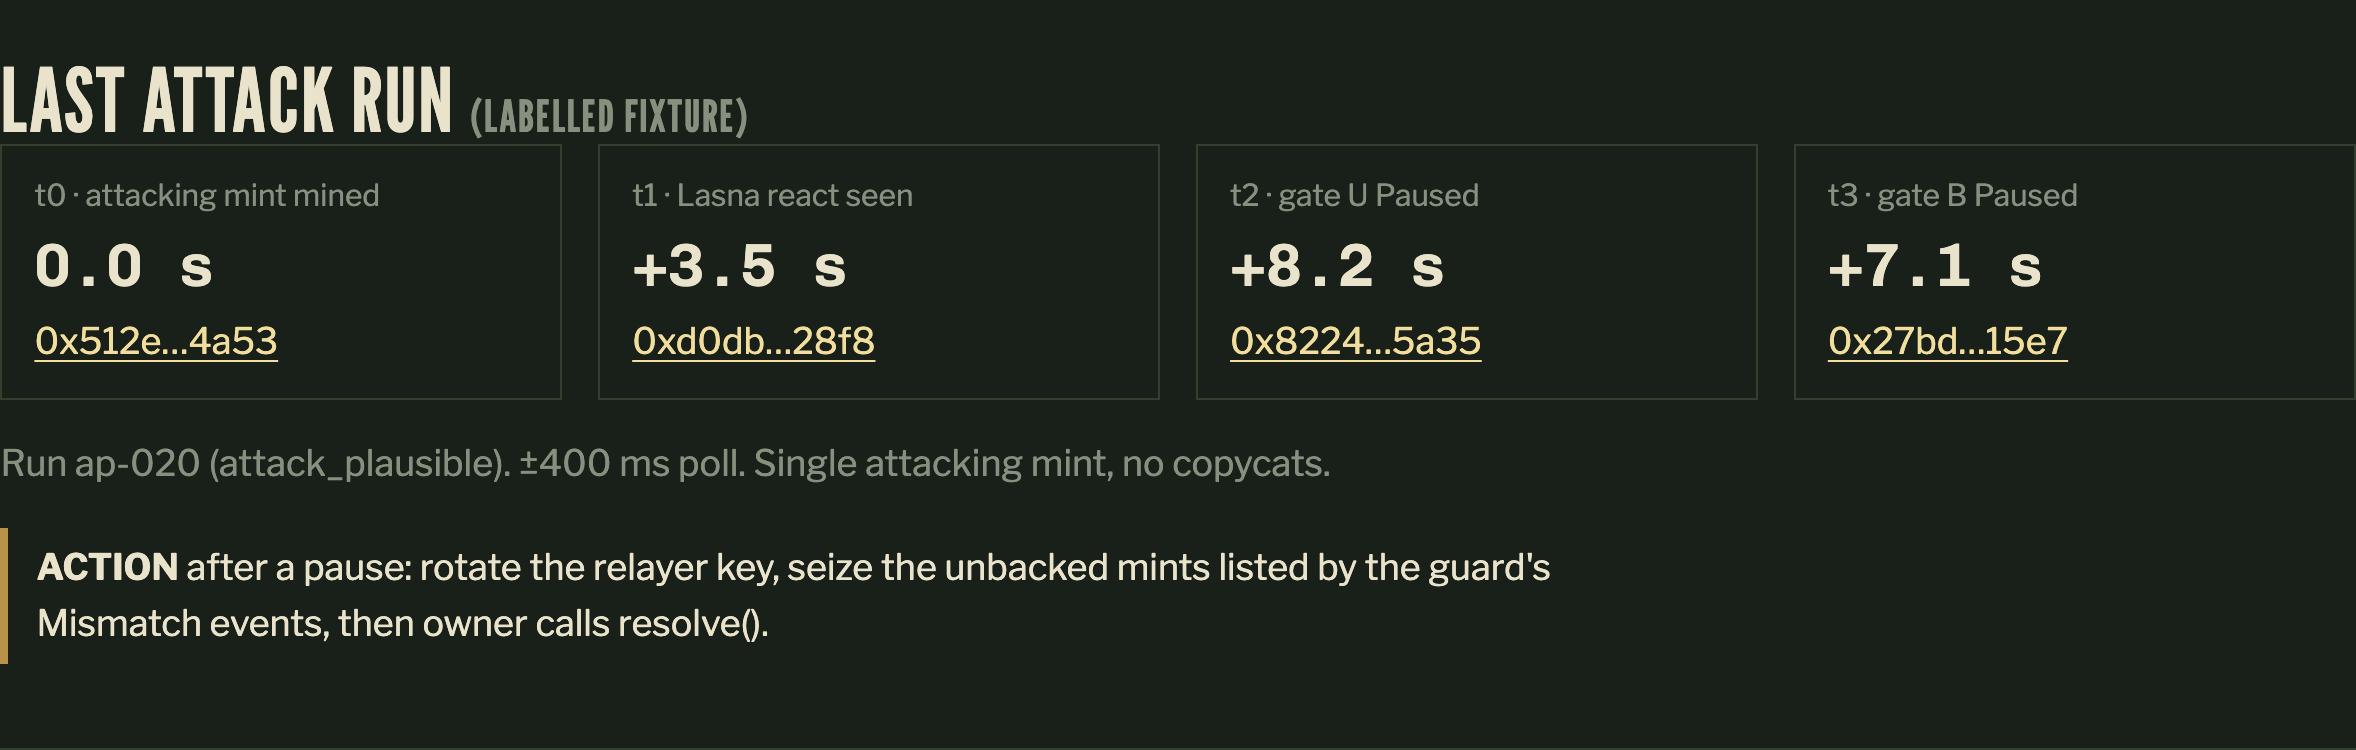
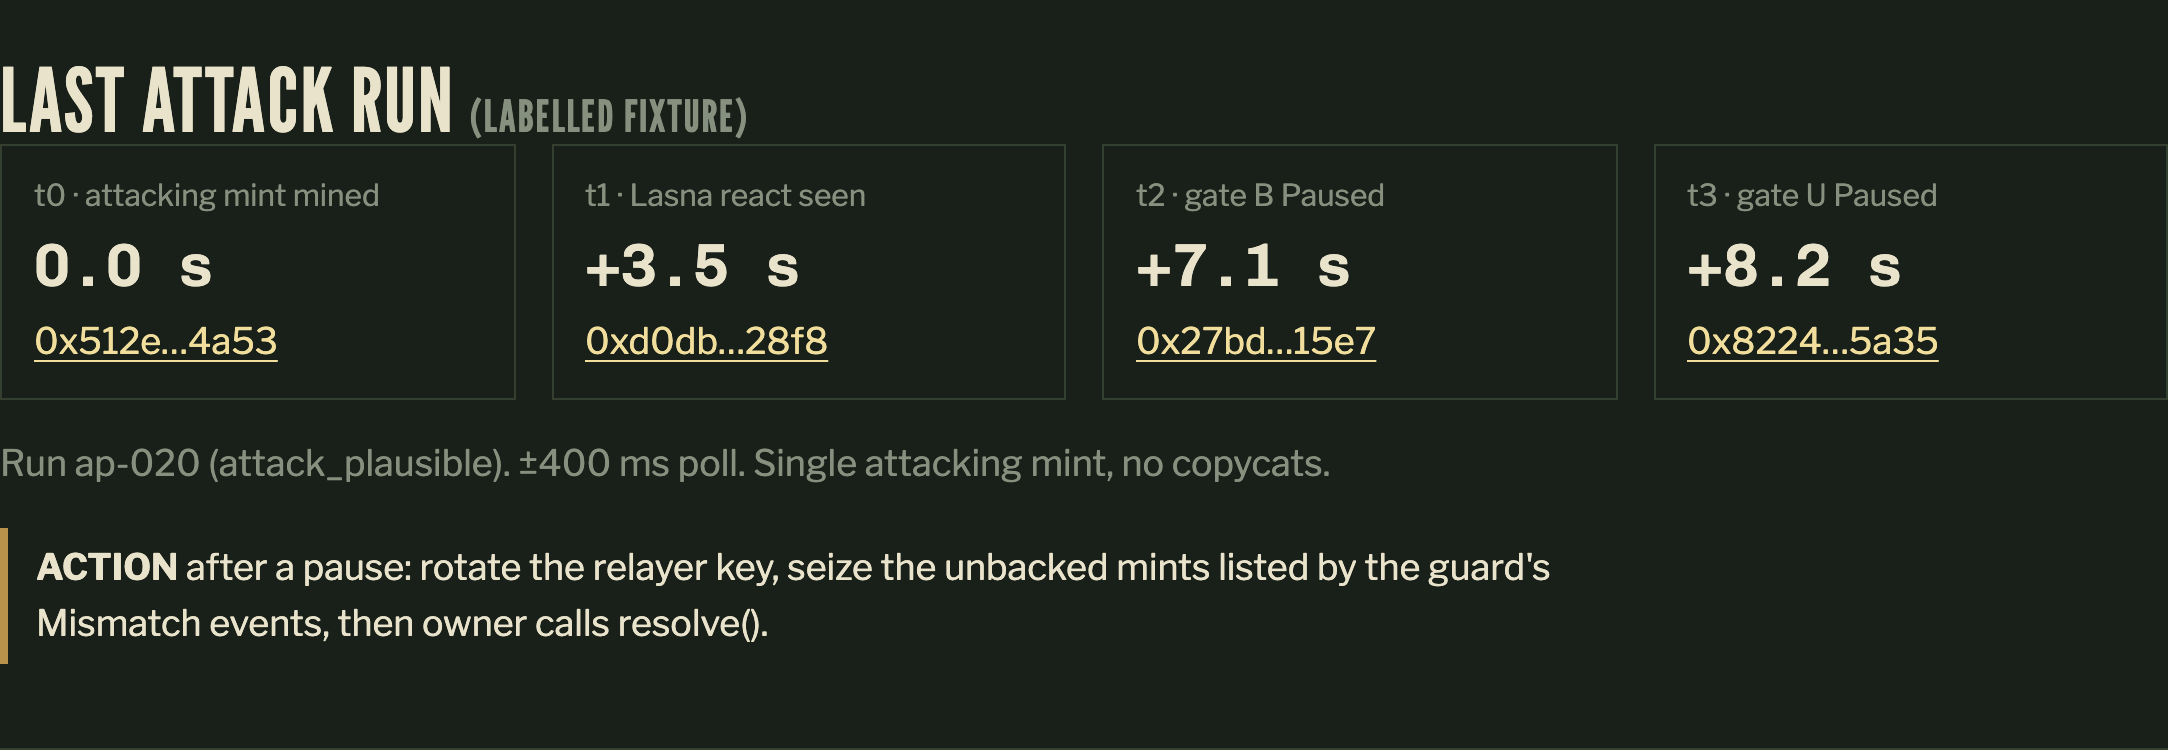
fix(status): the status page joins the site, and the last attack run reads in time order
- Site nav with the brand mark and release chip, the landing's 1180 px column, a <main> landmark and a skip link.
- LINE CLEAR / LINE BLOCKED carry the two track lamps (gate B, gate U) from the landing's tabs.
- Attack-run cards sort by time: ap-020 now reads gate B +7.1 s, then gate U +8.2 s. status-inc.png re-captured.
- Scrollable tables and /judge code blocks are keyboard-focusable regions; canonical link on /status/.
- release.js: one localStorage cache for every page, misses cached too, so a rate-limited
  IP calls the GitHub API at most once an hour instead of once per page.

diff --git a/docs/status/index.html b/docs/status/index.html
@@ -22,10 +22,11 @@
 <meta name="twitter:description" content="Live testnet status of the Ledgerlock guard: Reactive watches both chains of a bridge and shuts both ends when a mint has no lock. Every number is read from committed run rows.">
 <meta name="twitter:image" content="https://edycutjong.github.io/ledgerlock/assets/og-image.png">
 <meta name="twitter:image:alt" content="Ledgerlock: both bridge gates shut 8.245 s (p95 of 100 testnet attacks) after a mint on Unichain with no lock on Base; 0 of 80 legit transfers paused">
+<link rel="canonical" href="https://edycutjong.github.io/ledgerlock/status/">
 <meta name="description" content="Live status of the Ledgerlock guard: Reactive Network watches both chains of a bridge and shuts both ends of the line when a mint has no lock behind it. Testnet; every number is read from committed run rows.">
 <link rel="preload" href="fonts/league-gothic-latin-400-normal.woff2" as="font" type="font/woff2" crossorigin>
 <style>
-body.loading>section,body.loading>footer{visibility:hidden}
+body.loading main>section,body.loading>footer{visibility:hidden}
 @font-face{font-family:"League Gothic";src:url(fonts/league-gothic-latin-400-normal.woff2) format("woff2");font-weight:400;font-display:swap}
 @font-face{font-family:"Libre Franklin";src:url(fonts/libre-franklin-latin-400-normal.woff2) format("woff2");font-weight:400;font-display:swap}
 @font-face{font-family:"Libre Franklin";src:url(fonts/libre-franklin-latin-700-normal.woff2) format("woff2");font-weight:700;font-display:swap}
@@ -36,23 +37,46 @@ body.loading>section,body.loading>footer{visibility:hidden}
 *{box-sizing:border-box}
 html{background:var(--bg);color:var(--ink);font-family:var(--font-body);font-size:16px;line-height:1.55}
 @media(min-width:900px){html{font-size:18px}}
-body{margin:0;padding:0 clamp(16px,4vw,56px) 64px;max-width:1280px;margin-inline:auto}
-a{color:var(--before);text-decoration-thickness:1px;text-underline-offset:3px}
-a:hover{color:var(--ink)} a:focus-visible,input:focus-visible{outline:2px solid var(--brass);outline-offset:3px}
+body{margin:0;padding:0 0 64px}
+.wrap{max-width:1180px;margin:0 auto;padding:0 clamp(18px,4vw,48px)}
+::selection{background:var(--before);color:var(--bg)}
+a{color:var(--before);text-decoration-thickness:1px;text-underline-offset:3px;transition:color .15s,text-decoration-color .15s}
+a:hover{color:var(--ink)} a:focus-visible,input:focus-visible,.scroll:focus-visible{outline:2px solid var(--brass);outline-offset:3px}
+.skip{position:absolute;left:-999px;top:8px;background:var(--before);color:var(--bg);padding:8px 12px;z-index:9}.skip:focus{left:8px}
+header.nav{position:sticky;top:0;z-index:5;background:color-mix(in srgb,var(--bg) 92%,transparent);backdrop-filter:blur(6px);border-bottom:1px solid var(--rule)}
+.nav .wrap{display:flex;align-items:center;gap:18px;height:62px}
+.brand{display:flex;align-items:center;gap:10px;text-decoration:none;color:var(--ink)}
+.brand img{width:30px;height:30px;transition:transform .2s cubic-bezier(.2,.7,.2,1)}
+.brand span{font:400 26px/1 var(--font-display);letter-spacing:.04em;transition:color .2s}
+.brand:hover span{color:var(--before)}.brand:hover img{transform:rotate(-6deg)}
+.rel{font:400 12px/1 var(--font-data);color:var(--muted);text-decoration:none;border:1px solid var(--rule);padding:5px 7px;border-radius:2px;transition:color .2s,border-color .2s}
+.rel:hover{color:var(--ink);border-color:var(--muted)}
+.nav nav{display:flex;gap:20px;margin-left:auto;align-items:center}
+.nav nav a{color:var(--muted);text-decoration:none;font-size:14px;transition:color .2s}
+.nav nav a:hover,.nav nav a[aria-current]{color:var(--ink)}
+.nav .btn{display:inline-flex;align-items:center;padding:8px 14px;border:1px solid var(--rule);border-radius:3px;color:var(--ink);font:600 14px/1 var(--font-body);transition:border-color .2s,color .2s}
+.nav .btn:hover{border-color:var(--before);color:var(--before)}
+@media(max-width:560px){.nav nav a:not(.btn){display:none}.rel{display:none}}
 a:active{opacity:.75}
 .mono{font-family:var(--font-data);font-variant-numeric:tabular-nums}
 .disp{font-family:var(--font-display);text-transform:uppercase;letter-spacing:.02em;font-weight:400;margin:0;line-height:1}
 .muted{color:var(--muted)}
-header{padding:28px 0 12px;display:flex;flex-wrap:wrap;gap:8px 24px;align-items:baseline;border-bottom:1px solid var(--rule)}
-header h1{font-size:clamp(48px,8vw,96px)}
-header p{margin:0;max-width:70ch}
+.head{padding:30px 0 18px;display:flex;flex-wrap:wrap;gap:8px 24px;align-items:baseline;border-bottom:1px solid var(--rule)}
+.head h1{font-size:clamp(48px,8vw,96px)}
+.head p{margin:0;max-width:70ch}
 section{padding:28px 0;border-bottom:1px solid var(--rule)}
 section>h2{font-size:clamp(32px,4vw,44px);margin-bottom:12px;color:var(--ink)}
 .eyebrow{font-family:var(--font-data);font-size:13px;color:var(--muted);text-transform:uppercase;letter-spacing:.08em}
 .route{display:grid;grid-template-columns:1fr auto;gap:8px 24px;align-items:center;margin-bottom:28px}
 .route h3{font-size:clamp(28px,3.5vw,40px)}
-.state{font-family:var(--font-display);text-transform:uppercase;font-size:clamp(56px,9vw,88px);line-height:1;letter-spacing:.02em}
+.state{display:flex;align-items:center;gap:.26em;font-family:var(--font-display);text-transform:uppercase;font-size:clamp(56px,9vw,88px);line-height:1;letter-spacing:.02em}
+.state .tl{display:flex;flex-direction:column;gap:.1em;flex:none;padding:.09em .08em;border-radius:.07em;background:color-mix(in srgb,black 45%,var(--bg));box-shadow:0 0 0 1px var(--rule) inset}
+.state .tl b{display:block;width:.42em;height:.13em;border-radius:3px;background:var(--rule);transition:background .3s,box-shadow .3s}
+.state .tl b.c{background:var(--before);box-shadow:0 0 14px color-mix(in srgb,var(--before) 45%,transparent)}
+.state .tl b.r{background:var(--after);box-shadow:0 0 16px color-mix(in srgb,var(--after) 60%,transparent)}
+.state.clear{text-shadow:0 0 22px color-mix(in srgb,var(--before) 28%,transparent)}.state.blocked{text-shadow:0 0 26px color-mix(in srgb,var(--after) 50%,transparent)}
 .state.clear{color:var(--before)} .state.blocked{color:var(--after)} .state.unk{color:var(--muted)} .state.warn{color:var(--ink);border-bottom:6px solid var(--brass)}
+.state.unk .tl,.state:not(.clear):not(.blocked) .tl b:not(.c):not(.r){opacity:.6}
 .track{grid-column:1/-1;display:grid;grid-template-columns:1fr 1fr 1fr;gap:0;align-items:stretch}
 .box{border:2px solid var(--rule);padding:12px 14px;background:#1d271f;position:relative}
 .box h4{font-family:var(--font-display);font-size:26px;margin:0 0 4px;text-transform:uppercase;letter-spacing:.03em;font-weight:400}
@@ -63,6 +87,7 @@ section>h2{font-size:clamp(32px,4vw,44px);margin-bottom:12px;color:var(--ink)}
 .rail{height:6px;background:var(--rule);margin:10px 0}.rail.clear{background:var(--before)}.rail.blocked{background:var(--after)}
 @media(max-width:899px){.track{grid-template-columns:1fr}.box.mid{border:2px solid var(--rule);border-top:0;border-bottom:0}.route{grid-template-columns:1fr}}
 .cards{display:grid;gap:18px;grid-template-columns:repeat(auto-fit,minmax(260px,1fr))}
+#incident .cards{grid-template-columns:repeat(auto-fit,minmax(220px,1fr))}
 .stat{border:1px solid var(--rule);padding:14px 16px}
 .stat .v{font-family:var(--font-data);font-size:clamp(22px,3vw,30px);font-weight:600}
 .stat .k{font-size:15px;color:var(--muted)}
@@ -80,16 +105,32 @@ input[type=range]{width:min(420px,100%);accent-color:var(--brass);min-height:44p
 .health.bad{border-color:var(--brass);outline:1px solid var(--brass)}
 .hash a{font-family:var(--font-data);font-size:14px}
 footer{padding-top:20px;font-size:15px;color:var(--muted)}
+footer .ver{font-family:var(--font-data)}
+footer a{color:var(--muted)}footer a:hover{color:var(--ink)}
 .empty{color:var(--muted);font-style:italic}
 </style>
 </head>
 <body class="loading">
-<noscript><style>body.loading>section,body.loading>footer{visibility:visible}</style></noscript>
-<header>
-  <h1 class="disp">Ledgerlock</h1>
-  <p>Two chains, one book. A Reactive contract keeps both books of a bridge and shuts both ends of the line when a mint has no lock behind it. <span class="muted">Testnet · Lasna 5318007 · Base Sepolia · Unichain Sepolia</span></p>
-  <p class="muted" style="font-size:14px"><a href="../">Overview</a> · <a href="../pitch/">Pitch deck</a> · <a href="https://github.com/edycutjong/ledgerlock">GitHub</a></p>
+<a class="skip" href="#main">Skip to content</a>
+<noscript><style>body.loading main>section,body.loading>footer{visibility:visible}</style></noscript>
+<header class="nav">
+  <div class="wrap">
+    <a class="brand" href="../" aria-label="Ledgerlock home"><img src="../assets/icon.svg" alt="" width="30" height="30"><span>LEDGERLOCK</span></a>
+    <a class="rel" href="https://github.com/edycutjong/ledgerlock/releases/latest" title="Latest release"><span data-release>v0.5.0</span></a>
+    <nav aria-label="Site">
+      <a href="../">Overview</a>
+      <a href="./" aria-current="page">Status</a>
+      <a href="../pitch/">Pitch deck</a>
+      <a href="../judge">For judges</a>
+      <a class="btn" href="https://github.com/edycutjong/ledgerlock">GitHub</a>
+    </nav>
+  </div>
 </header>
+<main id="main" class="wrap">
+<div class="head">
+  <h1 class="disp">Status</h1>
+  <p>Two chains, one book. A Reactive contract keeps both books of a bridge and shuts both ends of the line when a mint has no lock behind it. <span class="muted">Testnet · Lasna 5318007 · Base Sepolia · Unichain Sepolia</span></p>
+</div>
 
 <section aria-labelledby="h-routes">
   <h2 id="h-routes" class="disp">The line, right now</h2>
@@ -120,7 +161,7 @@ footer{padding-top:20px;font-size:15px;color:var(--muted)}
 
 <section aria-labelledby="h-reg">
   <h2 id="h-reg" class="disp">Train register</h2>
-  <div class="scroll" id="register"><p class="empty">not measured yet</p></div>
+  <div class="scroll" id="register" tabindex="0" role="region" aria-label="Train register, scrollable"><p class="empty">not measured yet</p></div>
 </section>
 
 <section aria-labelledby="h-v">
@@ -128,7 +169,9 @@ footer{padding-top:20px;font-size:15px;color:var(--muted)}
   <div id="verify"></div>
   <p class="note">No server, no keeper key, no pager: the decision and both pauses are one Reactive loop.</p>
 </section>
-<footer>Read-only page. Data: <a href="data/status.json">data/status.json</a> built from the committed run rows in <span class="mono">evidence/</span>. Live reads go straight to public testnet RPCs; if one fails the page says so and shows the evidence.</footer>
+</main>
+<footer class="wrap">Read-only page · <a class="ver" href="https://github.com/edycutjong/ledgerlock/releases/latest" title="Latest release"><span data-release>v0.5.0</span></a> · Data: <a href="data/status.json">data/status.json</a> built from the committed run rows in <span class="mono">evidence/</span>. Live reads go straight to public testnet RPCs; if one fails the page says so and shows the evidence.</footer>
 <script src="status.js" defer></script>
+<script src="../assets/release.js" defer></script>
 </body>
 </html>

diff --git a/docs/status/status.js b/docs/status/status.js
@@ -50,9 +50,10 @@ function track(label, sub, gb, gu, req, boxes) {
   const word = split ? { cls: "warn", word: "split: one gate shut" } : s;
   const lamp = (open) => (open === null ? "" : open ? "clear" : "blocked");
   const rail = (open) => (open === null ? "" : open ? "clear" : "blocked");
+  const tl = (open) => (open === null ? "" : open ? "c" : "r"); // the two track lamps beside the state word: gate B, gate U
   const g = (n, open) => `<div class="needle"><span class="lamp ${lamp(open)}"></span><span>${n}: ${open === null ? (PENDING ? "reading…" : "live read failed") : open ? "OPEN" : "SHUT"}</span></div>`;
   return `<div class="route"><div><div class="eyebrow">${esc(sub)}</div><h3 class="disp">${esc(label)}</h3></div>
-  <div class="state ${word.cls}" aria-live="polite">${word.word}</div>
+  <div class="state ${word.cls}" aria-live="polite"><span class="tl" aria-hidden="true"><b class="${tl(gb)}"></b><b class="${tl(gu)}"></b></span>${word.word}</div>
   <div class="track"><div class="box"><h4>Base Sepolia</h4>${g("gate B", gb)}<div class="muted" style="font-size:14px">${esc(boxes.base)}</div><div class="rail ${rail(gb)}"></div></div>
   <div class="box mid"><h4>Lasna</h4><div class="muted" style="font-size:14px">${esc(boxes.mid)}</div><div class="rail"></div></div>
   <div class="box"><h4>Unichain Sepolia</h4>${g("gate U", gu)}<div class="muted" style="font-size:14px">${esc(boxes.uni)}</div><div class="rail ${rail(gu)}"></div></div></div></div>`;
@@ -89,8 +90,9 @@ function render(d, lv) {
   $("incident").innerHTML = inc ? `<div class="cards">
     <div class="stat"><div class="k">t0 · attacking mint mined</div><div class="v">0.0 s</div>${link(1301, inc.mint_tx)}</div>
     <div class="stat"><div class="k">t1 · Lasna react seen</div><div class="v">+${fmt(inc.detection_s)} s</div>${link(5318007, inc.lasna_tx)}</div>
-    <div class="stat"><div class="k">t2 · gate U Paused</div><div class="v">+${fmt(inc.pause_u_s)} s</div>${link(1301, inc.gate_u_tx)}</div>
-    <div class="stat"><div class="k">t3 · gate B Paused</div><div class="v">+${fmt(inc.pause_b_s)} s</div>${link(84532, inc.gate_b_tx)}</div></div>
+    ${[["gate U", inc.pause_u_s, 1301, inc.gate_u_tx], ["gate B", inc.pause_b_s, 84532, inc.gate_b_tx]]
+      .sort((x, y) => x[1] - y[1]) // time order: whichever gate's chain included its callback first
+      .map(([g, s, chain, tx], i) => `<div class="stat"><div class="k">t${i + 2} · ${g} Paused</div><div class="v">+${fmt(s)} s</div>${link(chain, tx)}</div>`).join("")}</div>
     <p class="muted">Run ${esc(inc.id)} (${esc(inc.kind)}). ±${d.summary ? d.summary.poll_ms : 400} ms poll. ${inc.fired !== null ? `Copycats fired ${inc.fired} · landed before the pause ${inc.landed} · reverted GatePaused ${inc.fired - inc.landed}. Exposure ${inc.exposure_tusd} tUSD.` : "Single attacking mint, no copycats."}</p>
     <p class="note"><b>ACTION</b> after a pause: rotate the relayer key, seize the unbacked mints listed by the guard's Mismatch events, then owner calls resolve().</p>` : '<p class="empty">not measured yet</p>';
 
@@ -138,13 +140,13 @@ function render(d, lv) {
   const c = d.control;
   if (c) {
     const sum = (x) => x.reduce((a, b) => a + b, 0);
-    $("numbers").insertAdjacentHTML("afterbegin", `<h3 class="disp" style="font-size:30px;margin:10px 0">Paired control: with and without the guard</h3><div class="scroll"><table><thead><tr><th>arm</th><th>runs</th><th>unauthorized tUSD issued per run</th><th>collateral released to the attacker per run (tUSD)</th><th>carry-home release</th></tr></thead><tbody>
+    $("numbers").insertAdjacentHTML("afterbegin", `<h3 class="disp" style="font-size:30px;margin:10px 0">Paired control: with and without the guard</h3><div class="scroll" tabindex="0" role="region" aria-label="Paired control table, scrollable"><table><thead><tr><th>arm</th><th>runs</th><th>unauthorized tUSD issued per run</th><th>collateral released to the attacker per run (tUSD)</th><th>carry-home release</th></tr></thead><tbody>
       <tr><td>A0 · CONTROL · UNGUARDED · FIXTURE</td><td>${c.a0.runs}</td><td>${sum(c.a0.issued_per_run) / c.a0.runs}</td><td>${sum(c.a0.released_per_run) / c.a0.runs}</td><td>${esc([...new Set(c.a0.carry_home)].join(", "))}</td></tr>
       <tr><td>A · guarded by Ledgerlock · FIXTURE</td><td>${c.a.runs}</td><td>${sum(c.a.issued_per_run) / c.a.runs}</td><td>${sum(c.a.released_per_run) / c.a.runs}</td><td>${esc([...new Set(c.a.carry_home)].join(", "))}</td></tr></tbody></table></div><p class="muted">Both arms: one forged 500 tUSD mint, then copycat mints, then a forged 500 tUSD release on Base. A0 sends a fixed 6 copycats (nothing ever reverts, so its issuance is set by that choice and is illustrative); on A the loop sends one copycat per confirmed receipt until the first GatePaused revert, so the guarded column is the measurement. Runs: bu-021..025 (A) and a0-001..005 (A0).</p>`);
   }
   if (d.routeBRuns && d.routeBRuns.drills.length) {
     const dr = d.routeBRuns.drills;
-    $("numbers").insertAdjacentHTML("beforeend", `<h3 class="disp" style="font-size:30px;margin:18px 0 6px">Route B drills (labelled owner drills, no attack staged)</h3><div class="scroll"><table><thead><tr><th>drill</th><th>gate U paused</th><th>gate B paused</th><th>transfer sent during the pause</th><th>Lasna</th><th>delivered after resolve()</th></tr></thead><tbody>${dr.map((r) => `<tr><td>${esc(r.id)}</td><td>+${fmt(r.pause_u_s)} s ${link(1301, r.pause_u_tx)}</td><td>+${fmt(r.pause_b_s)} s ${link(84532, r.pause_b_tx)}</td><td>${esc(r.held)} ${link(1301, r.held_tx)}</td><td>${link(5318007, r.pause_lasna_tx)}</td><td>${link(1301, r.delivered_tx)}</td></tr>`).join("")}</tbody></table></div>`);
+    $("numbers").insertAdjacentHTML("beforeend", `<h3 class="disp" style="font-size:30px;margin:18px 0 6px">Route B drills (labelled owner drills, no attack staged)</h3><div class="scroll" tabindex="0" role="region" aria-label="Route B drills table, scrollable"><table><thead><tr><th>drill</th><th>gate U paused</th><th>gate B paused</th><th>transfer sent during the pause</th><th>Lasna</th><th>delivered after resolve()</th></tr></thead><tbody>${dr.map((r) => `<tr><td>${esc(r.id)}</td><td>+${fmt(r.pause_u_s)} s ${link(1301, r.pause_u_tx)}</td><td>+${fmt(r.pause_b_s)} s ${link(84532, r.pause_b_tx)}</td><td>${esc(r.held)} ${link(1301, r.held_tx)}</td><td>${link(5318007, r.pause_lasna_tx)}</td><td>${link(1301, r.delivered_tx)}</td></tr>`).join("")}</tbody></table></div>`);
   }
   const last = d.incident;
   $("verify").innerHTML = (last ? `<p><b>Verify:</b> the latest pause loop's four hashes: mint ${link(1301, last.mint_tx)} → Lasna ${link(5318007, last.lasna_tx)} → gate U ${link(1301, last.gate_u_tx)} · gate B ${link(84532, last.gate_b_tx)}. No setup needed.</p>` : "") +

diff --git a/docs/assets/release.js b/docs/assets/release.js
@@ -1,21 +1,19 @@
 // Latest release tag: every [data-release] element already shows the tag stamped at deploy time (script/build-site.mjs);
-// this refreshes it from the GitHub API if a newer release exists. Cached for 10 minutes; fails silently.
+// this refreshes it from the GitHub API if a newer release exists. One shared cache for every page of the site (localStorage,
+// 1 hour), and a failed or rate-limited call is cached too, so a visitor on a shared IP asks the API at most once an hour
+// instead of once per page. Fails silently: the stamped tag stays.
 (() => {
   const els = document.querySelectorAll("[data-release]");
   if (!els.length) return;
-  const KEY = "ledgerlock-release", ok = (t) => typeof t === "string" && /^v\d+\.\d+\.\d+$/.test(t);
+  const KEY = "ledgerlock-release-v2", TTL = 3600000, ok = (t) => typeof t === "string" && /^v\d+\.\d+\.\d+$/.test(t);
   const paint = (t) => { if (ok(t)) els.forEach((e) => { e.textContent = t; }); };
+  const store = (tag) => { try { localStorage.setItem(KEY, JSON.stringify({ tag, at: Date.now() })); } catch { /* storage unavailable */ } };
   try {
-    const c = JSON.parse(sessionStorage.getItem(KEY) || "null");
-    if (c && Date.now() - c.at < 600000) return paint(c.tag);
+    const c = JSON.parse(localStorage.getItem(KEY) || "null");
+    if (c && Date.now() - c.at < TTL) return paint(c.tag); // a cached miss (tag null) keeps the stamped text
   } catch { /* storage unavailable */ }
   fetch("https://api.github.com/repos/edycutjong/ledgerlock/releases/latest", { headers: { Accept: "application/vnd.github+json" } })
     .then((r) => (r.ok ? r.json() : null))
-    .then((j) => {
-      const t = j && j.tag_name;
-      if (!ok(t)) return;
-      paint(t);
-      try { sessionStorage.setItem(KEY, JSON.stringify({ tag: t, at: Date.now() })); } catch { /* ignore */ }
-    })
-    .catch(() => {});
+    .then((j) => { const t = j && j.tag_name; store(ok(t) ? t : null); paint(t); })
+    .catch(() => store(null));
 })();

diff --git a/docs/judge.html b/docs/judge.html
@@ -215,16 +215,16 @@ footer .ver{font-family:var(--font-data);margin-left:auto}
     <p class="label">Real path first</p>
     <h2 id="h-rep" class="disp">Reproduce</h2>
     <p class="lab">Re-check the live runs on-chain (public RPC reads, no keys):</p>
-<pre><code>git clone --recurse-submodules https://github.com/edycutjong/ledgerlock.git && cd ledgerlock
+<pre tabindex="0"><code>git clone --recurse-submodules https://github.com/edycutjong/ledgerlock.git && cd ledgerlock
 pnpm install
 pnpm burst:verify     <span class="c"># re-reads the 25 burst rows (20 headline + 5 paired control) from the chains</span>
 pnpm bench:summary    <span class="c"># regenerates the latency, false-pause and burst numbers from evidence/frozen3-bench-runs.csv</span></code></pre>
     <p class="lab">Re-run the attack bench live on your own deployment (funded testnet keys, about 25 lREACT):</p>
-<pre><code>export LEDGERLOCK_ENV=~/.config/&lt;you&gt;/testnet.env   <span class="c"># deployer key + RPC URLs, outside the repo</span>
+<pre tabindex="0"><code>export LEDGERLOCK_ENV=~/.config/&lt;you&gt;/testnet.env   <span class="c"># deployer key + RPC URLs, outside the repo</span>
 INSTANCE=mine script/core-deploy.sh
 script/bench-all.sh mine                              <span class="c"># 100 legit + 100 attacks, resumable</span></code></pre>
     <p class="lab">CI / deterministic replay (Reactive Test Lib, no network):</p>
-<pre><code>forge test && FOUNDRY_PROFILE=kit forge test && pnpm test:coverage</code></pre>
+<pre tabindex="0"><code>forge test && FOUNDRY_PROFILE=kit forge test && pnpm test:coverage</code></pre>
   </div>
 </section>
 

diff --git a/e2e/status.spec.ts b/e2e/status.spec.ts
@@ -12,6 +12,14 @@ test.describe("status page", () => {
     await expect(hashes.first()).toHaveAttribute("href", /^https:\/\/(sepolia\.uniscan\.xyz|sepolia\.basescan\.org|lasna\.reactscan\.net)\/tx\/0x[0-9a-f]{64}$/);
   });
 
+  test("the last attack run's cards read in time order", async ({ page }) => {
+    await page.goto("/status/");
+    const secs = await page.locator("#incident .stat .v").allTextContents();
+    expect(secs.length).toBe(4);
+    const n = secs.map((t) => parseFloat(t.replace("+", "")));
+    expect([...n].sort((a, b) => a - b)).toEqual(n);
+  });
+
   test("route A's live gate state resolves to a definite word within 10 s", async ({ page }) => {
     await page.goto("/status/");
     await expect(page.locator("#routes")).toContainText(/line clear|line blocked|pause not confirmed|live read failed/, { timeout: 12_000 });
